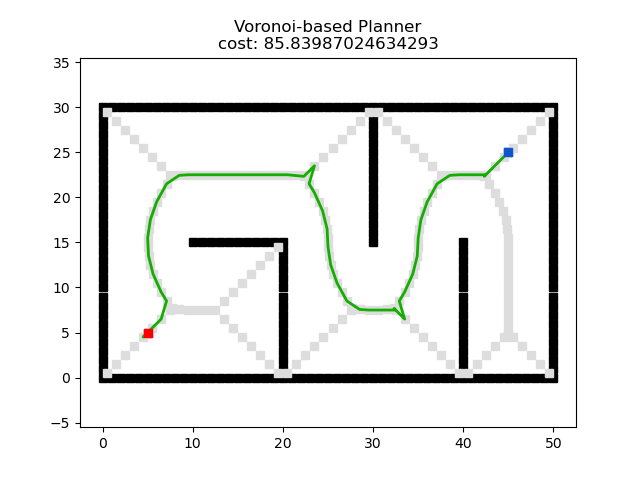
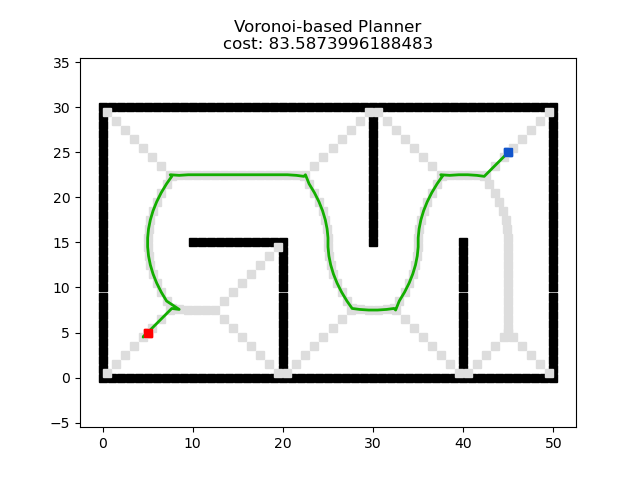
fix bugs in Voronoi-based planner(g_n)

diff --git a/global_planner/graph_search/voronoi.py b/global_planner/graph_search/voronoi.py
@@ -139,7 +139,6 @@ class VoronoiPlanner(GraphSearcher):
                 continue
 
             # goal found
-            # print(node.x, " ", node.y)
             if node == self.goal:
                 CLOSED.append(node)
                 return self.extractPath(CLOSED)
@@ -150,6 +149,7 @@ class VoronoiPlanner(GraphSearcher):
                     continue
                 
                 node_n.parent = node.current
+                node_n.g = self.dist(node_n, node)
                 if not dijkstra:
                     node_n.h = self.h(node_n, self.goal)
 

diff --git a/README.md b/README.md
@@ -64,8 +64,8 @@ Planner      |   Version   | Animation
 **JPS**                 | [![Status](https://img.shields.io/badge/done-v1.0-brightgreen)](https://github.com/ai-winter/python_motion_planning/blob/master/global_planner/graph_search/jps.py) | ![jps_python.png](gif/jps_python.png)
 **D***                  | [![Status](https://img.shields.io/badge/done-v1.0-brightgreen)](https://github.com/ai-winter/python_motion_planning/blob/master/global_planner/graph_search/d_star.py) | ![d_star_python.png](gif/d_star_python.png)
 **LPA***                 | [![Status](https://img.shields.io/badge/done-v1.0-brightgreen)](https://github.com/ai-winter/python_motion_planning/blob/master/global_planner/graph_search/lpa_star.py) | ![lpa_star_python.png](gif/lpa_star_python.png) 
-**D\* Lite**                | [![Status](https://img.shields.io/badge/done-v1.0-brightgreen)]((https://github.com/ai-winter/python_motion_planning/blob/master/global_planner/graph_search/d_star_lite.py)) | ![d_star_lite_python.png](gif/d_star_lite_python.png)
-**Voronoi**                | [![Status](https://img.shields.io/badge/done-v1.0-brightgreen)]((https://github.com/ai-winter/python_motion_planning/blob/master/global_planner/graph_search/voronoi.py)) | ![voronoi_python.png](gif/voronoi_python.png) 
+**D\* Lite**                | [![Status](https://img.shields.io/badge/done-v1.0-brightgreen)](https://github.com/ai-winter/python_motion_planning/blob/master/global_planner/graph_search/d_star_lite.py) | ![d_star_lite_python.png](gif/d_star_lite_python.png)
+**Voronoi**                | [![Status](https://img.shields.io/badge/done-v1.0-brightgreen)](https://github.com/ai-winter/python_motion_planning/blob/master/global_planner/graph_search/voronoi.py) | ![voronoi_python.png](gif/voronoi_python.png) 
 **RRT**                 | [![Status](https://img.shields.io/badge/done-v1.0-brightgreen)](https://github.com/ai-winter/python_motion_planning/blob/master/global_planner/sample_search/rrt.py) | ![rrt_python.png](gif/rrt_python.png)
 **RRT***                 | [![Status](https://img.shields.io/badge/done-v1.0-brightgreen)](https://github.com/ai-winter/python_motion_planning/blob/master/global_planner/sample_search/rrt_star.py) | ![rrt_star_python.png](gif/rrt_star_python.png)
 **Informed RRT**                 | [![Status](https://img.shields.io/badge/done-v1.0-brightgreen)](https://github.com/ai-winter/python_motion_planning/blob/master/global_planner/sample_search/informed_rrt.py) | ![informed_rrt_python.png](gif/informed_rrt_python.png)
